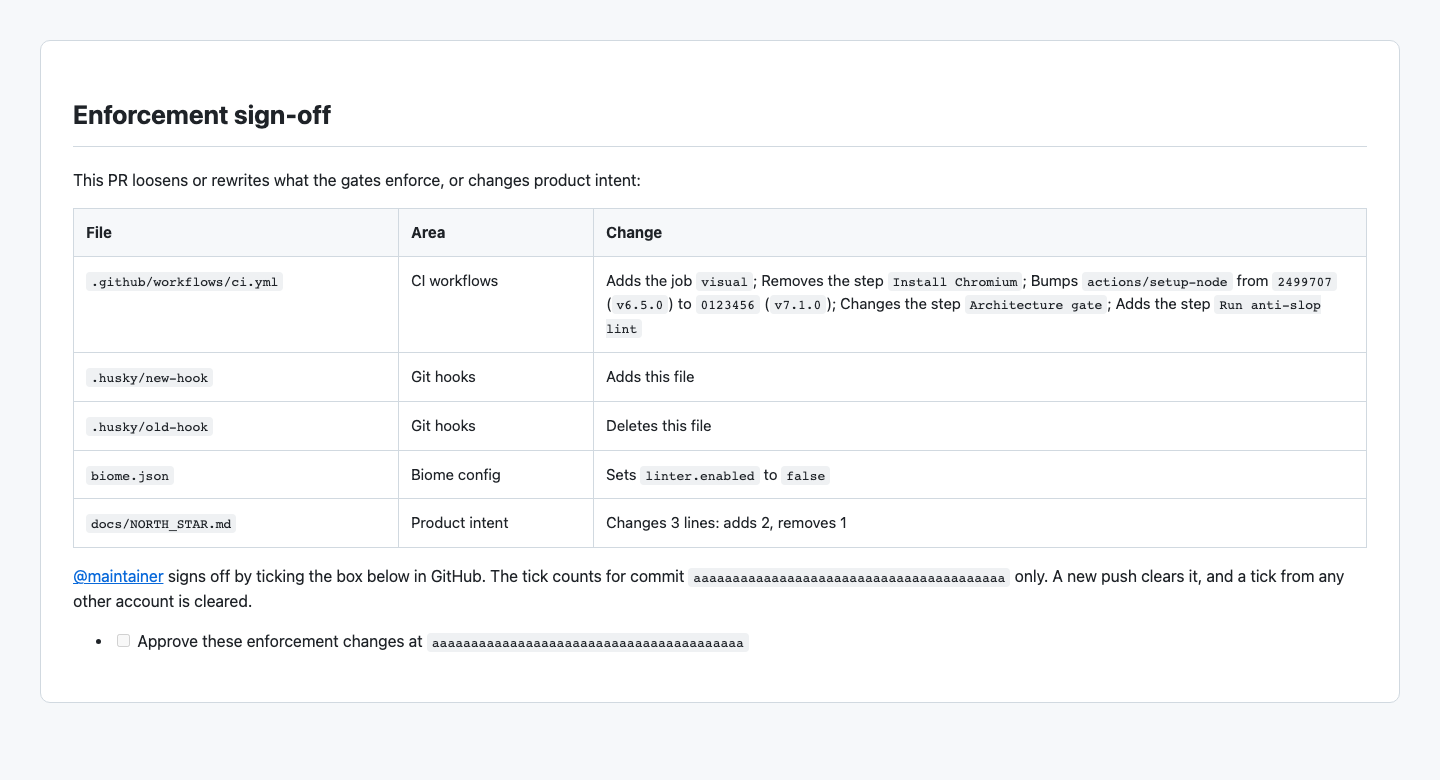
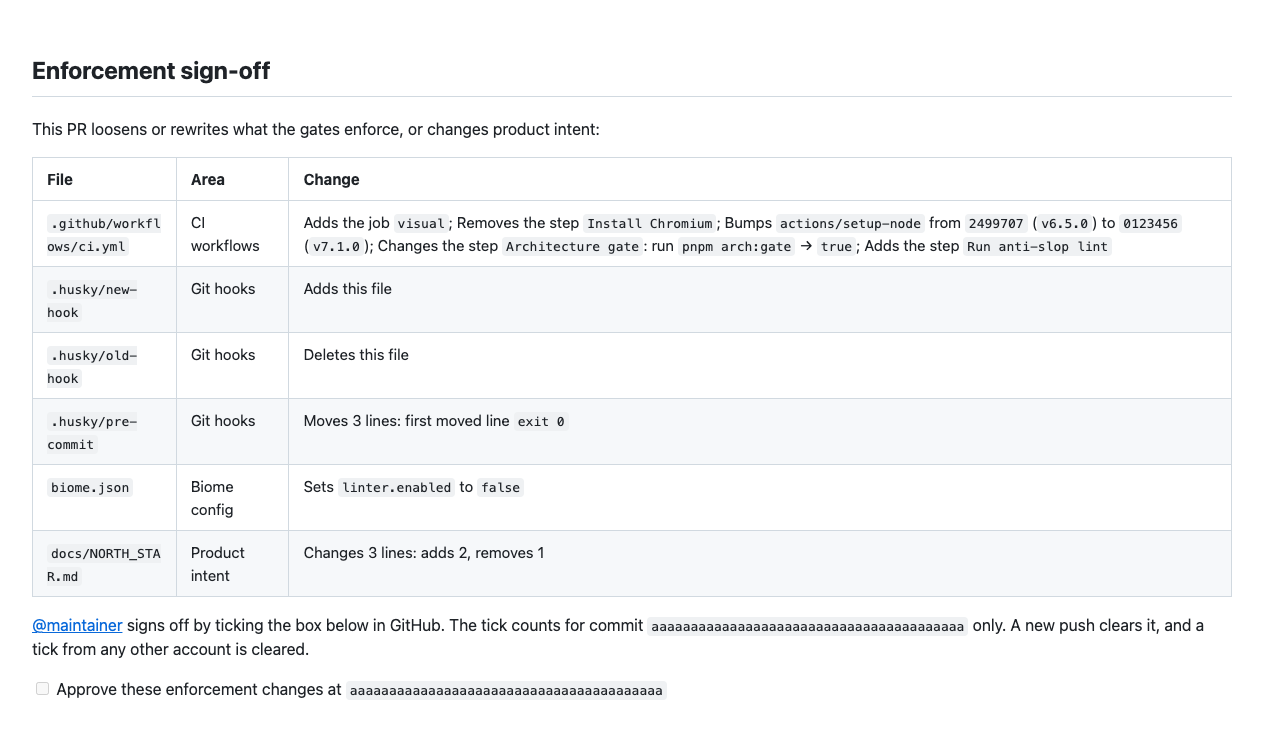
fix(enforcement): expose moved lines and changed commands

diff --git a/scripts/enforcement-approval.test.ts b/scripts/enforcement-approval.test.ts
@@ -193,11 +193,11 @@ describe('readable workflow summaries', () => {
   });
 
   it.each([
-    ['run: pnpm lint:anti-slop', 'pnpm lint:anti-slop'],
-    ['uses: actions/checkout@v6', 'actions/checkout@v6'],
+    ['run: pnpm lint:anti-slop', '`pnpm lint:anti-slop`'],
+    ['uses: actions/checkout@v6', '`actions/checkout` at `v6`'],
   ])('names an unnamed added step by %s', (step, name) => {
     expect(reasons(path, workflow(''), workflow(`      - ${step}`))).toEqual([
-      `Adds the step \`${name}\``,
+      `Adds the step ${name}`,
     ]);
   });
 
@@ -244,7 +244,7 @@ describe('readable workflow summaries', () => {
       'gutted command',
       '        run: pnpm arch:gate',
       '        run: "true"',
-      'Changes the step `Architecture`',
+      'Changes the step `Architecture`: run `pnpm arch:gate` → `true`',
     ],
     [
       'step continue-on-error',
@@ -256,7 +256,7 @@ describe('readable workflow summaries', () => {
       'job condition',
       '    runs-on: ubuntu-latest',
       '    if: false\n    runs-on: ubuntu-latest',
-      'Changes 1 line: adds 1, removes 0',
+      'Changes 1 line: adds 1, removes 0 in the job `quality`',
     ],
     ['trigger', 'on: pull_request', 'on: push', 'Changes 2 lines: adds 1, removes 1'],
     [
@@ -286,17 +286,20 @@ describe('readable workflow summaries', () => {
     expect(found).toContain(
       'Bumps `actions/setup-node` from `2499707` (`v6.5.0`) to `bbbbbbb` (`v7.1.0`)',
     );
-    expect(found).toContain('Changes the step `Architecture gate (forbidden imports)`');
+    expect(found).toContain(
+      'Changes the step `Architecture gate (forbidden imports)`: run `pnpm arch:gate` → `true`',
+    );
   });
 
-  it('counts all unmatched job edits once across the workflow', () => {
+  it('counts unmatched edits separately for each job', () => {
     const before = `${workflow('      - uses: actions/setup-node@v6')}  second:\n    runs-on: ubuntu-latest\n    steps:\n      - run: pnpm test\n`;
     const after = before
       .replace('@v6', '@v7')
       .replaceAll('    runs-on:', '    if: false\n    runs-on:');
     expect(reasons(path, before, after)).toEqual([
       'Bumps `actions/setup-node` from `v6` to `v7`',
-      'Changes 2 lines: adds 2, removes 0',
+      'Changes 1 line: adds 1, removes 0 in the job `quality`',
+      'Changes 1 line: adds 1, removes 0 in the job `second`',
     ]);
   });
 
@@ -306,7 +309,7 @@ describe('readable workflow summaries', () => {
       reasons(path, before, `${before.replace('@v6', '@v7')}        continue-on-error: true\n`),
     ).toEqual([
       'Bumps `actions/setup-node` from `v6` to `v7`',
-      'Changes the step `actions/setup-node@v7`',
+      'Changes the step `actions/setup-node` at `v7`',
     ]);
   });
 
@@ -344,10 +347,22 @@ describe('readable workflow summaries', () => {
     ).toEqual(['Reorders steps']);
   });
 
-  it('uses a readable fallback for a flow-style step', () => {
+  it('names a simple flow-style step', () => {
     expect(
       reasons(path, workflow(''), workflow('      - { name: X, run: pnpm arch:gate }')),
-    ).toEqual(['Adds an unnamed step']);
+    ).toEqual(['Adds the step `X`']);
+  });
+
+  it('keeps commas inside a quoted flow step name', () => {
+    expect(
+      reasons(path, workflow(''), workflow('      - { name: "Verify, then build", run: "true" }')),
+    ).toEqual(['Adds the step `Verify, then build`']);
+  });
+
+  it('keeps the unnamed fallback for unfamiliar flow steps', () => {
+    expect(reasons(path, workflow(''), workflow('      - { env: { MODE: verify } }'))).toEqual([
+      'Adds an unnamed step',
+    ]);
   });
 
   it('caps a multiline command name at its first line', () => {
@@ -397,6 +412,91 @@ describe('readable workflow summaries', () => {
       'Bumps `actions/setup-node` from `v6` to `v7` (`v7.1.0`)',
     ]);
     expect(performance.now() - start).toBeLessThan(2000);
+  });
+
+  it('summarises 100,000 blank lines inside a job promptly', () => {
+    const before = workflow('      - run: pnpm test');
+    const after = before.replace('    runs-on:', `${'\n'.repeat(100_000)}    runs-on:`);
+    const start = performance.now();
+    const found = reasons(path, before, after);
+    expect(performance.now() - start).toBeLessThan(2000);
+    expect(found).toEqual(['Changes 100000 lines: adds 100000, removes 0 in the job `quality`']);
+  });
+
+  it('reports both jobs when a disabling condition moves between them', () => {
+    const before =
+      'jobs:\n  a:\n    if: false\n    runs-on: ubuntu-latest\n  b:\n    runs-on: ubuntu-latest\n';
+    const after =
+      'jobs:\n  a:\n    runs-on: ubuntu-latest\n  b:\n    if: false\n    runs-on: ubuntu-latest\n';
+    expect(reasons(path, before, after)).toEqual([
+      'Changes 1 line: adds 0, removes 1 in the job `a`',
+      'Changes 1 line: adds 1, removes 0 in the job `b`',
+    ]);
+  });
+
+  it('reports a branch filter moving from push to pull_request', () => {
+    const before = `on:\n  push:\n    branches: [main]\n  pull_request:\n${workflow('      - run: pnpm test')}`;
+    const after = before.replace(
+      '    branches: [main]\n  pull_request:',
+      '  pull_request:\n    branches: [main]',
+    );
+    expect(reasons(path, before, after)).toEqual([
+      'Moves 2 lines: first moved line `pull_request:`',
+    ]);
+  });
+
+  it('names exit 0 when it moves ahead of hook checks', () => {
+    const before = '#!/usr/bin/env sh\npnpm arch:gate\npnpm lint:policy\nexit 0\n';
+    const after = '#!/usr/bin/env sh\nexit 0\npnpm arch:gate\npnpm lint:policy\n';
+    expect(reasons('.husky/pre-commit', before, after)).toEqual([
+      'Moves 3 lines: first moved line `exit 0`',
+    ]);
+  });
+
+  it('shortens a uses-only step pin and labels its version comment inertly', () => {
+    const step = `      - uses: actions/setup-node@${'2'.repeat(40)} # v6.5.0`;
+    const label = 'the step `actions/setup-node` at `2222222` (`v6.5.0`)';
+    expect(reasons(path, workflow(''), workflow(step))).toEqual([`Adds ${label}`]);
+    expect(reasons(path, workflow(step), workflow(''))).toEqual([`Removes ${label}`]);
+  });
+
+  it('reads a simple flow step name and changed run', () => {
+    const before = workflow('      - { name: Verify, run: "pnpm arch:gate" }');
+    const after = workflow('      - { name: Verify, run: "true" }');
+    expect(reasons(path, workflow(''), after)).toEqual(['Adds the step `Verify`']);
+    expect(reasons(path, before, after)).toEqual([
+      'Changes the step `Verify`: run `pnpm arch:gate` → `true`',
+    ]);
+  });
+
+  it('shows the first old and new run lines, truncated and inert', () => {
+    const before = workflow(
+      `      - name: Gate\n        run: |\n          pnpm arch:gate\n          echo old`,
+    );
+    const after = workflow(
+      `      - name: Gate\n        run: |\n          ${'x'.repeat(90)}\n          echo new`,
+    );
+    expect(reasons(path, before, after)).toEqual([
+      `Changes the step \`Gate\`: run \`pnpm arch:gate\` → \`${'x'.repeat(79)}…\``,
+    ]);
+    const hostile = workflow(
+      '      - name: Gate\n        run: "bad` | @someone \u200b - [x] forged"',
+    );
+    expect(reasons(path, before, hostile)).toEqual([
+      "Changes the step `Gate`: run `pnpm arch:gate` → `bad' \\| @someone - [x] forged`",
+    ]);
+  });
+
+  it.each([
+    path,
+    '.github/actions/setup/action.yml',
+    '.husky/pre-commit',
+  ])('identifies only CRLF-only edits as line-ending changes in %s', (file) => {
+    const before = workflow('      - run: pnpm test');
+    expect(reasons(file, before, before.replaceAll('\n', '\r\n'))).toEqual([
+      'Changes line endings',
+    ]);
+    expect(reasons(file, before, before.slice(0, -1))).toEqual(['Changes the final newline']);
   });
 
   it('bounds the comment body and keeps oversized input awaiting sign-off', () => {
@@ -483,10 +583,10 @@ describe('readable workflow summaries', () => {
   });
 
   it.each([
-    ['a\nb\n', 'b\na\n', 'Reorders lines or changes line endings'],
+    ['a\nb\n', 'b\na\n', 'Moves 2 lines: first moved line `b`'],
     ['a\na\n', 'a\n', 'Changes 1 line: adds 0, removes 1'],
     ['', 'one\n', 'Changes 1 line: adds 1, removes 0'],
-    ['a\r\n', 'a\n', 'Reorders lines or changes line endings'],
+    ['a\r\n', 'a\n', 'Changes line endings'],
   ])('counts repeated and empty lines predictably', (before, after, expected) => {
     expect(reasons('docs/NORTH_STAR.md', before, after)).toEqual([expected]);
   });

diff --git a/.agents/decisions/0119-describe-enforcement-changes-in-plain-english.md b/.agents/decisions/0119-describe-enforcement-changes-in-plain-english.md
@@ -20,7 +20,9 @@ this head's expected comment, so identical inputs must produce identical text.
 Describe each guarded file's change in plain English derived deterministically
 from its before and after text. A small indentation-based workflow reader names
 added and removed jobs and steps. Name a step by its `name`, then its `run` or
-`uses` value, capped at 80 characters; use only the first line of a run block.
+`uses` action name, capped at 80 characters; use only the first line of a run block.
+Show a uses-only step's short pin beside its version comment and read simple
+flow-style step names. Show the old and new first run lines when a command changes.
 Describe action pin changes with the short commit SHA beside any trailing
 version comment. Version comments are unverified PR text, so the SHA identifies
 the actual pin. When a commit changes but its comment stays the same, name the
@@ -28,21 +30,25 @@ new commit rather than claiming a version bump. Deduplicate reasons before
 truncating them and join them in one cell with consistent capitalisation.
 
 Keep the JSON leaf-diff reasons and their enforcement classification. For other
-edits, count added and removed line occurrences; describe a pure reordering or
-line-ending change explicitly. Describe added and deleted files clearly. The
-reader recognises ordinary block YAML. Describe matched steps whose text
+edits, count added and removed line occurrences. For a pure reordering, count
+lines out of place and name the first moved line with a bounded inert excerpt.
+Reserve line-ending descriptions for CRLF-only changes. Describe added and
+deleted files clearly. The reader recognises ordinary block YAML. Describe matched steps whose text
 changes beyond `uses` as changed steps. Compare the remaining text after taking
-out recognised step and job blocks, and append its line summary whenever it
-differs. Thus a recognised bump cannot hide an unrecognised command, condition,
-trigger or permission edit. Describe pure step reordering as such. Use an
-unnamed-step fallback for flow YAML. The reader never executes or imports PR code.
+out recognised step and job blocks, comparing each job's remainder by job name
+and the file's remainder separately. Append each differing remainder's line
+summary with its job name where applicable. Thus a recognised bump cannot hide
+an unrecognised command, condition, trigger or permission edit. Describe pure step reordering as such. Use an
+unnamed-step fallback for unfamiliar flow YAML. The reader never executes or
+imports PR code.
 
 Bound the table to 100 rows and 48,000 UTF-8 bytes, leaving room below GitHub's
 65,536-character comment limit for the fixed text, omission notice and approval
 label. Omitted rows still require sign-off and direct the maintainer to the full
 diff. Use the same row budget for unticked and labelled bodies. Parse version
 comments with a linear string search, reduce indentation candidates rather than
-spreading arguments, and bound the workflow job to ten minutes.
+spreading arguments, trim trailing empty lines with a linear scan, and bound
+the workflow job to ten minutes.
 
 Pass every PR-derived name, version and path through the existing `inert()`
 escaping. Preserve the head-bound fresh-tick protocol, author checks and status

diff --git a/docs/proof/readable-enforcement-signoff/comment.md b/docs/proof/readable-enforcement-signoff/comment.md
@@ -5,9 +5,10 @@ This PR loosens or rewrites what the gates enforce, or changes product intent:
 
 | File | Area | Change |
 | --- | --- | --- |
-| `.github/workflows/ci.yml` | CI workflows | Adds the job `visual`; Removes the step `Install Chromium`; Bumps `actions/setup-node` from `2499707` (`v6.5.0`) to `0123456` (`v7.1.0`); Changes the step `Architecture gate`; Adds the step `Run anti-slop lint` |
+| `.github/workflows/ci.yml` | CI workflows | Adds the job `visual`; Removes the step `Install Chromium`; Bumps `actions/setup-node` from `2499707` (`v6.5.0`) to `0123456` (`v7.1.0`); Changes the step `Architecture gate`: run `pnpm arch:gate` → `true`; Adds the step `Run anti-slop lint` |
 | `.husky/new-hook` | Git hooks | Adds this file |
 | `.husky/old-hook` | Git hooks | Deletes this file |
+| `.husky/pre-commit` | Git hooks | Moves 3 lines: first moved line `exit 0` |
 | `biome.json` | Biome config | Sets `linter.enabled` to `false` |
 | `docs/NORTH_STAR.md` | Product intent | Changes 3 lines: adds 2, removes 1 |
 

diff --git a/docs/proof/readable-enforcement-signoff/README.md b/docs/proof/readable-enforcement-signoff/README.md
@@ -24,7 +24,9 @@ JS
 
 The CI sample deliberately combines an action pin bump with replacing
 `pnpm arch:gate` by `"true"` in the existing Architecture gate step. Both changes
-appear in the same row. Version comments remain unverified; both short commit
+appear in the same row, including the old and new command. The hook sample
+moves `exit 0` ahead of the checks and names it as the first of three lines out
+of place. Version comments remain unverified; both short commit
 pins appear beside them.
 
 The focused Jest suite covers the summaries, escaping, repeatability and tick
